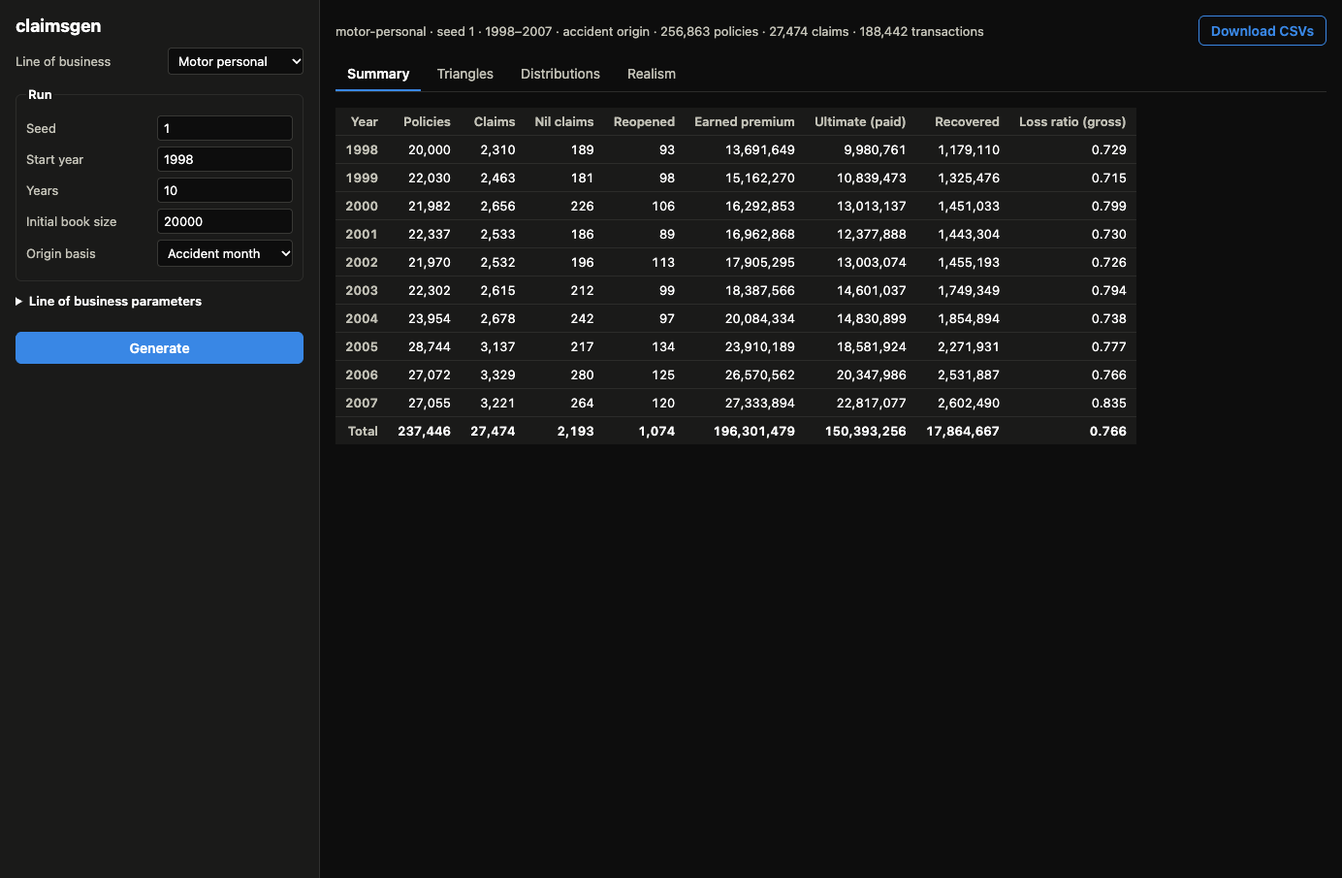
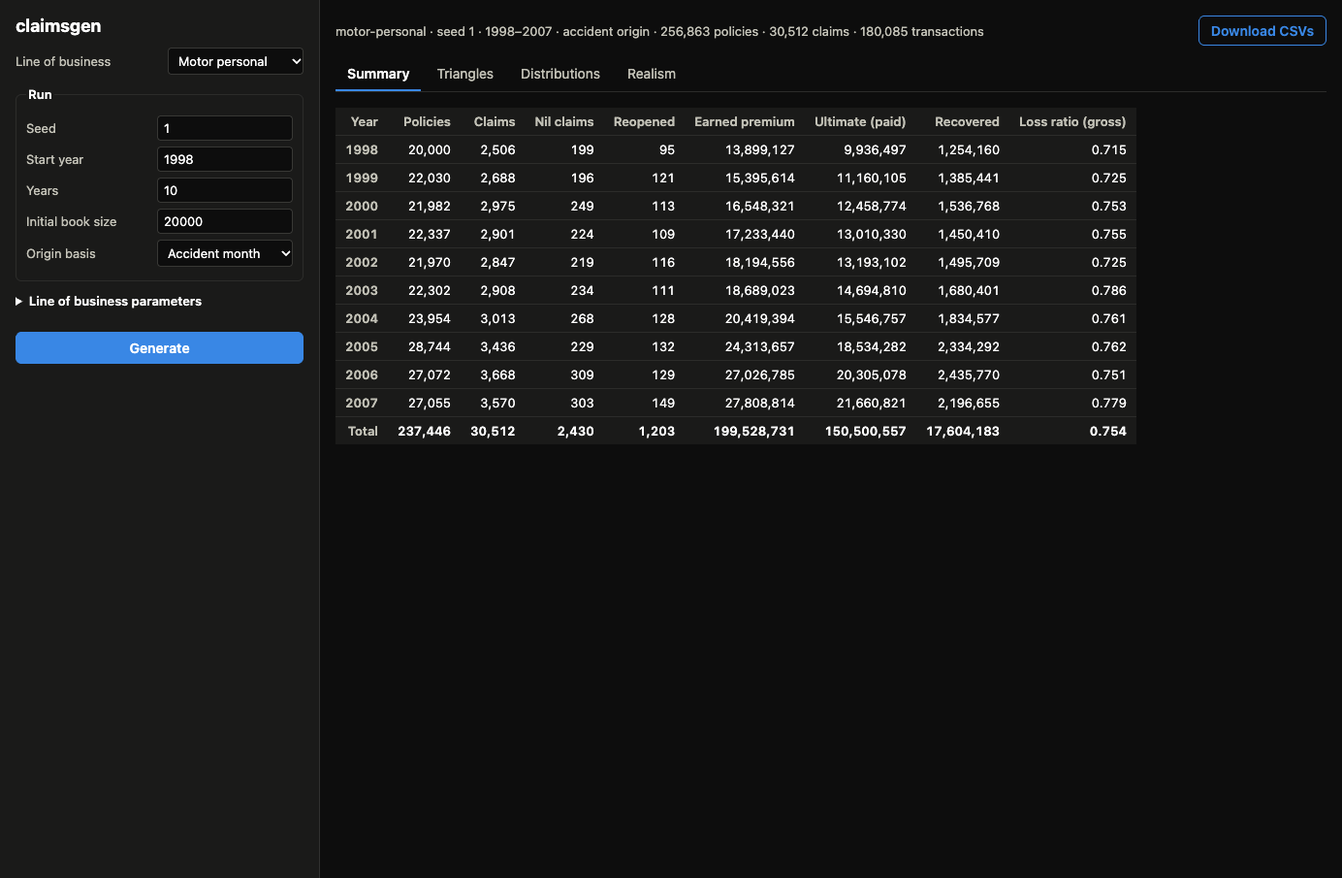
Document the Part 1B split and close MR-14

diff --git a/README.md b/README.md
@@ -51,7 +51,7 @@ Configure a run in the sidebar and hit Generate - the summary tab shows per-year
 
 | Realism check | Realism check - failing run |
 | --- | --- |
-| Every metric of the default preset falls inside the bands observed across the Schedule P reference companies. | Raising the third-party base frequency to 0.1 pushes the ultimate loss ratio outside its band. |
+| Every metric of the default preset falls inside the bands observed across the Schedule P reference companies. | Raising the third-party injury base frequency to 0.1 pushes the ultimate loss ratio outside its band. |
 | ![Realism tab passing, every metric inside its reference band](docs/screenshots/ui-realism-pass.png) | ![Realism tab failing, ultimate loss ratio outside its reference band](docs/screenshots/ui-realism-fail.png) |
 
 ## How the simulation works
@@ -127,7 +127,7 @@ flowchart TD
     size["each underwriting year: the number of policies<br/>warm-up year before the window: initial_book_size / growth_factor<br/>first window year: initial_book_size<br/>later years: previous × growth_factor × LN(size_volatility)"]
     priced["the year's priced loss ratio<br/>target_loss_ratio × LN(adequacy_volatility)"]
     draws["each policy draws<br/>cover start: uniform over the year, cover end: start + 364 days<br/>sum insured: lognormal, sigma spread, median sum_insured_median<br/>drifting by sum_insured_inflation a year<br/>risk factor: gamma, mean 1, standard deviation spread<br/>excess: weighted pick from excess_choices"]
-    expected["expected loss under the pricing block, section by section<br/>expected cost above the excess, from the section's assumed severity:<br/>sum_insured_lognormal, capped at the sum insured<br/>or pareto, uncapped<br/>× base_frequency × risk factor<br/>× (1 - nil_probability<br/>+ reopen_probability × reopen_estimate_factor)<br/>trended at inflation_mean to the middle of the cover"]
+    expected["expected loss under the pricing block, section by section<br/>expected cost above the excess, from the section's assumed severity:<br/>sum_insured_lognormal, capped at the sum insured<br/>lognormal or pareto, uncapped<br/>× base_frequency × risk factor<br/>× (1 - nil_probability<br/>+ reopen_probability × reopen_estimate_factor)<br/>trended at inflation_mean to the middle of the cover"]
     premium["premium = expected loss / the year's priced loss ratio<br/>kept per section too, for the realism check"]
     size -- "that many policies" --> draws --> expected --> premium
     priced --> premium
@@ -137,7 +137,7 @@ Each year's book size is the previous year's size times a growth factor times ra
 
 ### Claim events
 
-Each section of each policy produces its claims independently, from its own block of `claims.sections`. The preset has two sections: `own_damage`, the insured vehicle, and `third_party`, liability to others. The severity draw below fixes the claim's true ultimate cost; no later stage changes it, though a reopen adds a separate second amount.
+Each section of each policy produces its claims independently, from its own block of `claims.sections`. The preset has three sections: `own_damage`, the insured vehicle, `third_party_property`, damage to other people's vehicles and property, and `third_party_injury`, bodily injury to others. The severity draw below fixes the claim's true ultimate cost; no later stage changes it, though a reopen adds a separate second amount.
 
 ```mermaid
 %%{init: {"flowchart": {"wrappingWidth": 480}}}%%
@@ -147,6 +147,7 @@ flowchart TD
     report["report date = occurrence + lognormal lag<br/>report_lag: median, sigma"]
     kind{"severity kind?"}
     siLoss["sum_insured_lognormal: base-year sum insured<br/>× lognormal fraction, median median_fraction,<br/>sigma sigma"]
+    lognormalLoss["lognormal: median median,<br/>sigma sigma, in start-year dollars"]
     paretoLoss["pareto: minimum scale,<br/>tail index alpha"]
     index["claims inflation index<br/>each year × inflation.mean × LN(inflation.volatility),<br/>compounded from 1.0, smooth through the year"]
     trended["× the index at the occurrence date"]
@@ -158,8 +159,10 @@ flowchart TD
     nilFlag["nil claim? probability nil_probability<br/>a nil claim's first episode pays nothing"]
     count --> occurrence --> report --> kind
     kind -- "sum_insured_lognormal" --> siLoss
+    kind -- "lognormal" --> lognormalLoss
     kind -- "pareto" --> paretoLoss
     siLoss --> trended
+    lognormalLoss --> trended
     paretoLoss --> trended
     index --> trended
     trended --> cap --> pierce
@@ -167,7 +170,7 @@ flowchart TD
     pierce -- "yes" --> ultimate --> closeDate --> nilFlag
 ```
 
-Losses that do not exceed the excess are never reported, so the reported frequency sits below `base_frequency`. In the preset, report lags are short for own damage and longer for third-party injury claims, so there are claims incurred but not yet reported to estimate. Own-damage claims settle in weeks, while third-party (liability) claims settle in a slower long-tail regime calibrated to the Schedule P liability reference, so paid losses keep developing at later ages. In both, settlement time lengthens smoothly with claim size. A share of reported claims are nil - they close without any payment at their first close.
+Losses that do not exceed the excess are never reported, so the reported frequency sits below `base_frequency`. In the preset, report lags are short for own damage and property damage and longer for injury claims, so there are claims incurred but not yet reported to estimate. Own-damage and property-damage claims settle in weeks to months. Injury claims are rarer, heavy-tailed (Pareto) and settle in a slow long-tail regime calibrated to the Schedule P liability reference, so paid losses keep developing at later ages. Property damage is a lognormal in start-year dollars, uncapped and with no cover limit. In both, settlement time lengthens smoothly with claim size. A share of reported claims are nil - they close without any payment at their first close.
 
 Claims inflation is a stochastic path: each calendar year's factor is a mean level (a per-line-of-business knob) times lognormal noise, compounding from the start year and drawn from its own labelled sub-stream so it stays reproducible and independent of the other stages. The index sits at each year's compounded value in the middle of the year and moves smoothly between years rather than stepping each 1 January.
 
@@ -279,7 +282,7 @@ flowchart LR
     inflation["inflation"]
     claims["claims"]
     claimStreams["claims-policy-1, ..."]
-    sectionStreams["own_damage<br/>third_party"]
+    sectionStreams["own_damage<br/>third_party_property<br/>third_party_injury"]
     reopening["reopening"]
     reopenStreams["reopen-claim-1, ..."]
     caseEstimate["case-estimate"]
@@ -362,13 +365,13 @@ same way at the end of the window.
 
 ## Parameters per line of business
 
-All behavior is driven by a YAML file mapped to the `LineOfBusiness` domain object - see `internal/infrastructure/config/motor-personal.yaml` for the annotated motor preset. The top-level blocks are `book`, `pricing`, `claims`, and `runoff` - `pricing` holds the insurer's assumed loss cost, kept separate from the `claims` block that generates the true experience. Both list the line's sections of cover under `sections`, by the same names in the same order: each claims section sets its own frequency, severity, report lag, close lag and recovery eligibility, and one may be marked `scored: true` for the realism check. A new short-tail class is a YAML file for the CLI (`generate --config my-lob.yaml` is pure YAML, no code changes); surfacing it as a UI preset also needs the YAML embedded and registered in the preset registry in `internal/infrastructure/config/config.go`. See `docs/roadmap.md` for the second-line-of-business plan.
+All behavior is driven by a YAML file mapped to the `LineOfBusiness` domain object - see `internal/infrastructure/config/motor-personal.yaml` for the annotated motor preset. The top-level blocks are `book`, `pricing`, `claims`, and `runoff` - `pricing` holds the insurer's assumed loss cost, kept separate from the `claims` block that generates the true experience. Both list the line's sections of cover under `sections`, by the same names in the same order: each claims section sets its own frequency, severity, report lag, close lag and recovery eligibility, and any may be marked `scored: true` for the realism check. A new short-tail class is a YAML file for the CLI (`generate --config my-lob.yaml` is pure YAML, no code changes); surfacing it as a UI preset also needs the YAML embedded and registered in the preset registry in `internal/infrastructure/config/config.go`. See `docs/roadmap.md` for the second-line-of-business plan.
 
 ## Assumptions and known simplifications
 
 The model deliberately trades some realism for a clean, reproducible engine. The main simplifications a reviewer should know about:
 
-- **Own-damage severity trends at the claims index only and is capped at the sum insured.** Own-damage losses are sized off a fixed base-year sum insured, trended by the claims-inflation index at the occurrence date alone, and capped at the policy's sum insured - so own damage and third party share the single claims-inflation trend and own damage can never exceed the cover. Third-party losses carry the same claims-inflation index and are not capped at the sum insured.
+- **Own-damage severity trends at the claims index only and is capped at the sum insured.** Own-damage losses are sized off a fixed base-year sum insured, trended by the claims-inflation index at the occurrence date alone, and capped at the policy's sum insured - so own damage and third party share the single claims-inflation trend and own damage can never exceed the cover. Third-party losses (property damage and injury) carry the same claims-inflation index and are not capped at the sum insured.
 - **Case adequacy bias decays on a fixed path.** Every claim's case closes the adequacy gap the same way, geometrically to parity at close, so case development is systematic and smooth; real case reserving also shifts with handlers, claim types and reserving reviews.
 - **Nil claims draw severity and probability independently of claim size**; real withdrawn or nil claims skew small.
 - **No seasonality, catastrophe, or event clustering.** Occurrences are uniform within each cover period and claims are independent across policies (the only cross-policy link is the shared inflation path).
@@ -381,7 +384,7 @@ The model deliberately trades some realism for a clean, reproducible engine. The
 %%{init: {"flowchart": {"wrappingWidth": 480}}}%%
 flowchart TD
     dataset["generated dataset"]
-    section["scored section only<br/>its claims against<br/>each policy's premium for it"]
+    section["scored sections together<br/>their claims against<br/>each policy's premium for them"]
     triangles["accident-year triangles, 10 development years<br/>paid net of recoveries,<br/>incurred plus pure IBNR, earned premium"]
     metrics["paid age-to-age factors<br/>incurred age-to-age factors<br/>ultimate loss ratio<br/>loss-ratio drift between the two halves<br/>of the accident years"]
     references[("96 Schedule P private passenger auto<br/>liability companies, accident years 1998-2007")]
@@ -397,14 +400,20 @@ flowchart TD
 
 Generated data is checked against 96 hand-curated Schedule P private passenger
 auto reference companies (`data/reference/schedule p/ppauto_pos98-07/`,
-accident years 1998-2007). That reference is Schedule P's private passenger
-auto *liability* line, with no physical damage in it, so the preset marks its
-third-party (liability) section `scored: true` and the check scores it alone:
-third-party claims against the third-party share of premium. A line of
-business with no scored section is scored as a whole book. Own-damage claims are left out of the score
+accident years 1998-2007). The reference is Schedule P Part 1B, private
+passenger auto liability/medical. It includes bodily injury and property damage
+liability, personal injury protection, medical payments and uninsured motorist.
+It excludes physical damage, which is Part 1J and has no 10-year history. The
+preset marks its two third-party (liability) sections, `third_party_property`
+and `third_party_injury`, `scored: true`, and the check scores them together:
+their claims against their share of premium. A line of business with no scored
+section is scored as a whole book. Own-damage claims are left out of the score
 rather than slowed to liability settlement speed, and the preset sets their
-settlement as a short-tail class. The UI's triangle tab still shows the whole
-book. The companies were curated from the full Schedule P
+settlement as a short-tail class. The preset carries no first-party injury cover
+(personal injury protection, medical payments, uninsured motorist). Part 1B is
+net of reinsurance and includes defence costs; the generated losses are gross of
+reinsurance and exclude defence costs, which the calibration absorbs
+implicitly. The UI's triangle tab still shows the whole book. The companies were curated from the full Schedule P
 extract via `data/reference/gr-code-list.md` and `tools/prune-dec2025.ps1` to
 remove low-volume and degenerate companies. Paid and incurred age-to-age
 development factors, the ultimate loss ratio, and the loss-ratio drift between

diff --git a/docs/architecture.md b/docs/architecture.md
@@ -53,7 +53,7 @@ Three read-only passes consume the `Dataset`:
 
 - `application.Aggregate` builds the monthly grid and monthly exposure on the chosen origin basis, plus the accident-basis annual triangles and earned premium, into `Aggregates`.
 - `application.Summarize` and `application.ComputeDistributions` build the UI's per-year table and its severity and lag histograms.
-- `application.EvaluateRealism` builds `SectionComparison`, the scored section's annual triangles and premium, and scores it with `triangle.CompareToReference`.
+- `application.EvaluateRealism` builds `SectionComparison`, the annual triangles and premium of the scored sections taken together, and scores them with `triangle.CompareToReference`.
 
 The CLI writes the three dataset CSVs and, from `Aggregates`, `triangles.csv` and `exposure.csv`, into a directory. The web server returns the analytics as JSON and serves the same five files as a zip download, which regenerates the run from its seed and parameters.
 
@@ -63,13 +63,13 @@ The CLI writes the three dataset CSVs and, from `Aggregates`, `triangles.csv` an
 
 `LineOfBusiness{Name, Book, Pricing, Claims, Runoff}` is the whole parameter set; nothing else configures the engine. `Validate` names an offending field by its YAML path, screens NaN and infinity before the range checks, and skips the fields of a switched-off feature, so a YAML author never has to invent parameters for something they turned off.
 
-A line of business is a list of sections of cover, `ClaimParams.Sections`. Each `SectionParams` carries its own base frequency, severity (`sum_insured_lognormal`, capped at the sum insured, or `pareto`, uncapped), report lag, close lag, recovery eligibility, and whether the realism gate scores it (`ScoredSection`). Inflation, nil claims, reopening and the recovery parameters are shared across sections.
+A line of business is a list of sections of cover, `ClaimParams.Sections`. Each `SectionParams` carries its own base frequency, severity (`sum_insured_lognormal`, capped at the sum insured, or the uncapped `lognormal` in start-year dollars and `pareto`), report lag, close lag, recovery eligibility, and whether the realism gate scores it (`Scored`; `ClaimParams.ScoredSections` lists the scored ones). Inflation, nil claims, reopening and the recovery parameters are shared across sections.
 
 `PricingParams` is the insurer's assumed loss cost, kept apart from `ClaimParams`, the true process. Its `Sections` give each claims section's assumed frequency and severity, by the same names in the same order. `ExpectedSectionLoss` prices one section of a policy in closed form from the assumptions alone, and premium is the sum over the target loss ratio. The loss ratio emerges from sampling and from any gap between the two models; nothing forces it.
 
 ### `policy` - the book
 
-`BookSimulator.Simulate` writes one underwriting year at a time, starting with a warm-up year before the window so the first accident year has a full book in force. Each policy draws its cover dates, sum insured, risk factor and excess from its own sub-stream and is priced from the pricing block. `Policy` also carries two fields no CSV writes: `BaseSumInsured`, the sum insured in start-year dollars that a sum-insured severity is sized off, and `SectionPremiums`, the premium split by section, which the realism gate scores a section against. `ProjectedSize` is the noise-free policy count the web server caps runs with.
+`BookSimulator.Simulate` writes one underwriting year at a time, starting with a warm-up year before the window so the first accident year has a full book in force. Each policy draws its cover dates, sum insured, risk factor and excess from its own sub-stream and is priced from the pricing block. `Policy` also carries two fields no CSV writes: `BaseSumInsured`, the sum insured in start-year dollars that a sum-insured severity is sized off, and `SectionPremiums`, the premium split by section, which the realism gate scores the scored sections against. `ProjectedSize` is the noise-free policy count the web server caps runs with.
 
 ### `claim` - claim events
 
@@ -117,7 +117,7 @@ The CLI dispatches `generate` (load the preset or a `--config` YAML, generate, w
 - **The ledger folds cleanly.** Each payment releases its own case, outstanding case is never negative, and every episode ends with the case at exactly zero. Gross paid equals the claim's true cost, and a sum-insured section never pays beyond the sum insured less the excess. `internal/application/invariants_test.go` checks the ledger as a state machine.
 - **Recoveries stay below gross paid,** by at least a cent, and are the only rows dated after a claim's final close.
 - **Every claim closes.** There is no valuation date.
-- **Realism.** `TestDefaultPresetIsRealistic` keeps the preset's scored third-party section inside the Schedule P P5-P95 bands across several seeds, and `TestPresetHasNoSystematicLossRatioDrift` switches the inflation and pricing noise off and requires a flat loss ratio.
+- **Realism.** `TestDefaultPresetIsRealistic` keeps the preset's scored third-party sections (property damage and injury) inside the Schedule P P5-P95 bands across several seeds, and `TestPresetHasNoSystematicLossRatioDrift` switches the inflation and pricing noise off and requires a flat loss ratio.
 - **Loopback-only UI.** A 127.0.0.1 bind, Host and Origin checks, capped request bodies, strict JSON and YAML decoding, and a front end that never assigns HTML. `docs/todo.md` lists what must change before the UI is served beyond 127.0.0.1.
 - **No free text in the CSVs.** If a free-text column is ever added, switch to `encoding/csv` with formula-lead-character escaping in the same change.
 

diff --git a/docs/review.md b/docs/review.md
@@ -13,46 +13,7 @@ IDs are **MR** (model review). Severity uses the `docs/todo.md` scale: **high**
 undermines the mission, **medium** worth addressing soon, **low** fix when
 touching the area.
 
-## 1. MR-14 (medium) - one third-party section stands in for all of Schedule P Part 1B
-
-- Where: `internal/infrastructure/config/motor-personal.yaml` (`third_party`
-  section), `internal/domain/lob/lob.go` (`ClaimParams.validate`, at most one
-  scored section), `internal/application/realism.go` (`SectionComparison`).
-- The reference is Schedule P Part 1B, private passenger auto
-  liability/medical: bodily injury liability, property damage liability,
-  personal injury protection, medical payments and uninsured motorist, on an
-  accident-year basis, net of reinsurance, with defence and cost containment
-  in paid and incurred, paid net of salvage and subrogation, and incurred
-  including bulk and IBNR. Physical damage is Part 1J, which has no 10-year
-  history.
-- By claim count Part 1B is mostly third-party property damage: small claims
-  settled in weeks. Injury claims are fewer, larger and slow. The preset has one
-  `third_party` section, described as injury claims (Pareto from $4,000, mean
-  close 340 days), whose lags were tuned until the blend's annual triangles
-  fit the bands. Company 10007 pays about 49% of accident year 1998 within
-  12 months, which a pure injury book would not. The triangles pass, but at
-  claim level the section is one claim type that is too frequent and fast for
-  injury and too large and slow for property damage, which undercuts the
-  mission's transaction-level realism.
-- The gate can score only one section, so the two claim types cannot be split
-  and still scored together against Part 1B.
-- `docs/roadmap.md` says "Schedule P carries liability lines only" and calls
-  commercial auto "the closest short-tail fit". It is the CAS extract that
-  holds only liability lines. Schedule P itself has homeowners (Part 1A) and
-  commercial multiple peril (Part 1E) on ten years, and special property (1I)
-  and auto physical damage (1J) on short histories. Commercial auto liability
-  is not short-tail.
-- Out of scope: first-party injury cover (personal injury protection, medical
-  payments, uninsured motorist), which a comprehensive personal motor product
-  barely carries, and defence costs and reinsurance, which the calibration
-  absorbs implicitly. The README should say so.
-- Action: allow several scored sections and score their union against the
-  reference; add a `lognormal` severity kind in dollars; split `third_party`
-  into `third_party_property` and `third_party_injury` and recalibrate; state
-  what Part 1B includes and excludes in the README and the preset; correct the
-  roadmap wording. MR-8's limit and excess switch stay separate.
-
-## 2. MR-12 (low) - one setting drives two kinds of variation
+## 1. MR-12 (low) - one setting drives two kinds of variation
 
 - Where: `internal/domain/policy/book.go`, `simulatePolicy`.
 - `spread` sets both the sum-insured lognormal sigma and the risk-factor
@@ -62,15 +23,17 @@ touching the area.
   class's other schema changes.
 - Action: split it into two parameters.
 
-## 3. MR-8 (low) - third-party severity is a bare Pareto
+## 2. MR-8 (low) - third-party severity is a bare Pareto
 
 - Where: `internal/domain/claim/claim.go`, `drawGroundUpLoss`.
-- No third-party claim is below about $3,050 after excess, the mode sits at the
-  Pareto minimum, there is no policy limit, and the excess is applied to
-  liability claims, which a US auto liability book would not do.
+- No third-party injury claim is below about $3,050 after excess, the mode sits
+  at the Pareto minimum, there is no policy limit, and the excess is applied to
+  liability claims, which a US auto liability book would not do. The `lognormal`
+  kind gives property damage a lognormal body, but injury is still a bare
+  Pareto.
 - The limit and the excess switch are per-section settings, so they belong on
   `SectionParams` with the second line of business. The body shape shows in
   the claim-size histogram but barely moves the triangles, so it can wait.
 - Action: with the second line of business, an optional per-section limit and
   a per-section switch for applying the excess. Later, a lognormal body with a
-  Pareto tail as a third severity kind.
+  Pareto tail as another severity kind.

diff --git a/AGENTS.md b/AGENTS.md
@@ -63,7 +63,7 @@ Run `go test` and `go vet` before claiming work is done. CI (`.github/workflows/
 
 - **Reproducibility is a hard invariant.** The same seed plus the same config must produce byte-identical output. Randomness flows from a single seeded source split into labelled sub-streams so stages stay independent and repeatable. Never introduce nondeterminism (wall-clock time, map iteration order in output, unseeded randomness) into the generation path.
 - **Golden tests.** `internal/application/golden_test.go` pins three SHA-256 digests: `wantHash` over the three dataset CSVs, `wantAggregateHash` over `triangles.csv` and `exposure.csv`, and `wantAnnualHash` over the annual triangles, including the `SectionComparison` triangles and earned premium that the realism gate scores. `wantAnnualHash` matters most: the realism bands are wide enough to absorb a real shift in the annual cells, so it is the only guard on the cells the realism gate and the preset's calibration depend on. If you intentionally change the generated data or its encoding, the failing test prints the actual hash - paste it back into the constant. Do not update any of them to hide an unintended change; understand why the output moved first.
-- **Realism gate.** `TestDefaultPresetIsRealistic` scores the shipped preset against the embedded Schedule P bands across several seeds. The reference is private passenger auto *liability*, so the preset marks its third-party section `scored: true` and the gate scores that section only (`application.SectionComparison`: its claims against its share of premium); own damage is not scored. Changes to the model must keep the default preset inside its P5-P95 bands.
+- **Realism gate.** `TestDefaultPresetIsRealistic` scores the shipped preset against the embedded Schedule P bands across several seeds. The reference is private passenger auto *liability*, so the preset marks its two third-party sections (`third_party_property`, `third_party_injury`) `scored: true` and the gate scores those sections together (`application.SectionComparison`: their claims against their share of premium); own damage is not scored. Changes to the model must keep the default preset inside its P5-P95 bands.
 - **One aggregation store.** `triangle.MonthlyGrid` is the canonical aggregate: incremental cells, origin months down, development months across, running to full runoff. Every coarser grain is `MonthlyGrid.Coarsen`, which keys both axes on the calendar period the month falls in - the annual triangles the realism gate and the UI read are `Coarsen(Annual, 10, true)` cumulated, the `true` folding development past age 10 into the last column. Add new aggregate views by coarsening the grid, never by re-scanning the transactions.
 - **Adding a line-of-business parameter** touches these places, in order:
   1. The domain struct and its `validate` in `internal/domain/lob/lob.go`. A parameter that differs by section of cover belongs on `SectionParams` (and, if pricing assumes it, `PricingSectionParams`). A zero value must mean "off" or the old behaviour, so existing YAMLs keep working, and a switched-off block's other fields should not be required (see `RecoveryTypeParams.validate`).

diff --git a/docs/roadmap.md b/docs/roadmap.md
@@ -10,7 +10,7 @@ The next step is the second line of business below, which folds in MR-12 (separa
 
 Prove the "one parameterizable engine" differentiator by adding a second short-tail class to personal motor, most likely **commercial property**. The plumbing is ready - sections of cover, the preset registry, the line-of-business dropdown, and the preset-driven UI form were built so a new class is a YAML file plus a registration line. The real work is:
 
-- **Per-line-of-business reference data and calibration.** The realism gate is motor-only today: `claimsgen ui` loads the private passenger auto reference directory (`refdata.PersonalMotorDir`), and only that set is embedded. Reference data needs to be keyed per line of business so each class calibrates against an appropriate Schedule P family. `data/reference/schedule p/` already holds hand-curated companies for all six Schedule P lines - private passenger auto (96 companies), commercial auto (92), other liability (92), workers compensation (61), products liability (13) and medical malpractice (8) - kept against `data/reference/gr-code-list.md`. Schedule P carries liability lines only, so a commercial *property* class has no direct reference family; commercial auto is the closest short-tail fit.
+- **Per-line-of-business reference data and calibration.** The realism gate is motor-only today: `claimsgen ui` loads the private passenger auto reference directory (`refdata.PersonalMotorDir`), and only that set is embedded. Reference data needs to be keyed per line of business so each class calibrates against an appropriate Schedule P family. `data/reference/schedule p/` already holds hand-curated companies for all six Schedule P lines - private passenger auto (96 companies), commercial auto (92), other liability (92), workers compensation (61), products liability (13) and medical malpractice (8) - kept against `data/reference/gr-code-list.md`. The embedded extract holds those six liability lines only. Schedule P itself has homeowners (Part 1A) and commercial multiple peril (Part 1E) on ten years, and special property (Part 1I) on a short history, but none of these is embedded, so a commercial *property* class has no reference in the repo today.
 - **Any class-specific behavior** commercial property needs that motor does not. A class with no liability tail is already a single sum-insured section; anything else, such as severity capped harder at the sum insured, is new section behaviour.
 
 ## Longer term

diff --git a/docs/mission.md b/docs/mission.md
@@ -40,7 +40,7 @@ It runs as a CLI (`claimsgen generate`) or as a local browser UI (`claimsgen ui`
 
 A user can generate a realistic personal motor dataset on their own machine and feed it into a reserving model, study or demonstration without manual fixes.
 
-Realism is measured against Schedule P: the third-party (liability) section of the shipped preset must sit inside the P5-P95 bands of the private passenger auto liability reference companies.
+Realism is measured against Schedule P: the third-party (liability) sections of the shipped preset must sit inside the P5-P95 bands of the private passenger auto liability reference companies.
 
 ## Next
 
